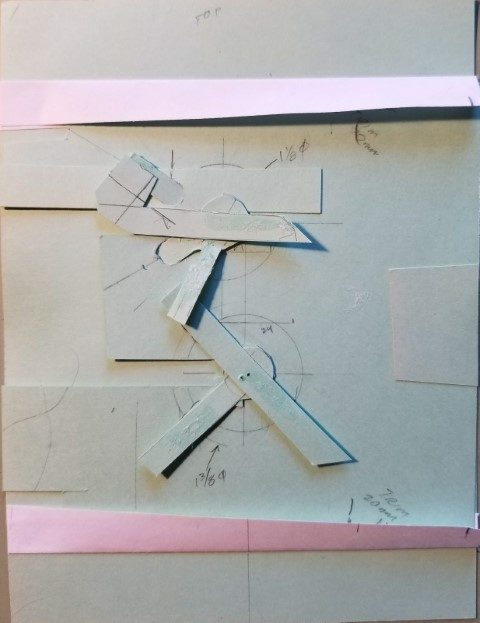
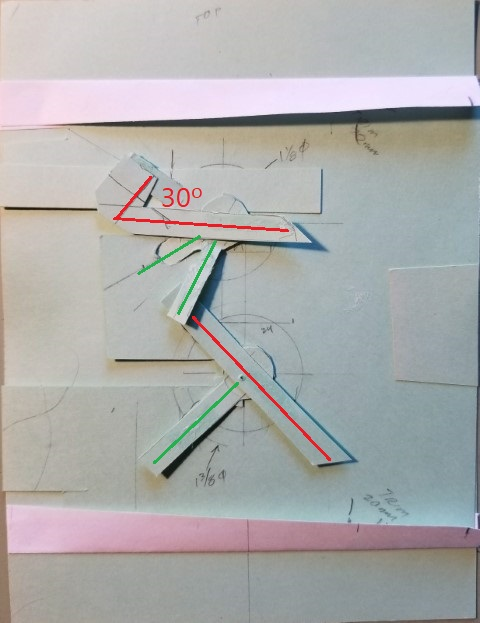
first draft

diff --git a/_posts/2024-3-28-april.md b/_posts/2024-3-28-april.md
@@ -1,11 +1,8 @@
 ---
 tags:
 - 180-degree
-- parallel-fold
-- box
-- slots
-- FS6
-- study-in-black-and-white
+- pivot
+- PT2
 - '2024'
 title: April 2024 Pop-Up
 cover: /images/2404/cover.jpg
@@ -18,35 +15,91 @@ key: April2024
 
 ## Idea
 
-I recently started running again after stopping for nearly ten years due to injuries. To exercise, I first got back on my mountain bike and rode on the trails. Then I would ride and do a lap running on the trails. Before I could get about half a mile in before my knee started acting up and now I found I could go a full lap (about 1.4 miles) without any issues. I started running twice a week and now up to three times a week. I staying on the Dirty Spoke trail race mailing list for the past ten years thinking I'd sign up for a run, and I finally did. It was over ten years since my last Dirty Spoke run, and to celebrate, I made a pop-up card.
+I recently started running again after stopping for nearly ten years due to injuries. To exercise, I first got back on my mountain bike and rode on nearby trails. Then I would ride and do a lap running. Before, I could only get about half a mile in before my knee started acting up, but now I found I could go a full lap (about 1.4 miles) without any issues. I started running twice a week and now up to three times a week. I stayed on the [Dirty Spokes](http://www.dirtyspokes.com/) trail race mailing list for the past ten years thinking someday I'd sign up for a run again, and I finally did. It was over ten years since my last Dirty Spoke run, and to celebrate, I made a pop-up card.
 
 ## Design
 
-I wanted to do a running with the arms and legs moving.
+I wanted to do a running figure with the arms and legs moving, which meant using pivots with a pull tab like I did in the [March 2022](/2022/02/28/dancing-leprechaun.html) pop-up. One issue that first comes up is that the legs and arms move in opposite directions, but on the same pivot point. I knew that would be the trickiest part of this card. To see if it was even feasible, I made a small sketch, and it was doable.
 
-![Mechanism]({{site.baseurl}}/images/2404/prototype.jpg){: width="{{ site.imageWidth }}" }
+For each set of limbs, there would two pivot arms attached be one point. The tab that moved the arms would have a hole above the pivot to move one arm clockwise, and a hole below the pivot to move the other counterclockwise. The plus sign in the sketch below is the pivot point, and you can see the holes for each pivot arm. As the white tab is pulled left, the yellow arm moves clockwise, and the green arm moves counterclockwise.
 
-![Runner]({{site.baseurl}}/images/2404/runner.jpg){: width="{{ site.imageWidth }}" }
+![Mechanism]({{site.baseurl}}/images/2404/prototype.jpg){: width="{{ site.imageWidthHalf }}" }
+*Sketch*{: .image-caption}
 
-Here's a series of photos putting together the prototype mechanism.
+As you may imagine from the sketch, since the arms move in opposite directions, and cross each other avoiding collisions would be a challenge.
 
-![Step1]({{site.baseurl}}/images/2404/step1.jpg){: width="{{ 200 }}" }
-![Step2]({{site.baseurl}}/images/2404/step2.jpg){: width="{{ 200 }}" }
-![Step3]({{site.baseurl}}/images/2404/step3.jpg){: width="{{ 200 }}" }
-![Step4]({{site.baseurl}}/images/2404/step4.jpg){: width="{{ 200 }}" }
+Initially, I was thinking of using 90&deg; pivots for both limbs, but after looking at [Edward Muybridge's photos of a running man](https://www.royalacademy.org.uk/art-artists/work-of-art/running-at-full-speed) I found that the legs moved about 90&deg;, but the arms moved about 120&deg; as show below in an annotated frame.
 
-![Step5]({{site.baseurl}}/images/2404/step5.jpg){: width="{{ 200 }}" }
-![Step6]({{site.baseurl}}/images/2404/step6.jpg){: width="{{ 200 }}" }
-![Step7]({{site.baseurl}}/images/2404/step7.jpg){: width="{{ 200 }}" }
-![Step8]({{site.baseurl}}/images/2404/step8.jpg){: width="{{ 200 }}" }
+![Runner]({{site.baseurl}}/images/2404/runner.jpg){: width="{{ site.imageWidthHalf }}" }
+*Running man*{: .image-caption}
+
+Since the arms and legs move different angles, with the same pull of the tab, that meant the holes for the moving arms had to be at different distances from the pivot point. I did some full-size sketches to test things out. This took much more time than I thought it would, but I finally got it to work.
+
+Here's a series of photos putting together the final prototype mechanism (this is actually a tear-down of it in reverse order).
+
+Step 1 has all the mechanism parts. The left part is the base with guides for the odd-shaped pull to the right of it. The red circles are the pivot points. The green circles on the tab are where the pivot arms go through it.  The pivot arms for the right limbs are already through the upper holes of the tab. These go through the tab from underneath it, to avoid colliding pivot arms for the left limbs.
+
+![Step1]({{site.baseurl}}/images/2404/step1.jpg){: width="{{ site.imageWidth }}" }
+
+Step 2 has the tab in place and the other pivot arms through the holes. The left limbs' arms go through the tab holes from above, then another layer of card is added to strengthen and extend them. At this point the arms will move, but collide. The legs can be attached to pivot arms since the angles match the legs' positions. The pivot arms angle and the arm angle are 30&deg; off, as shown by the lines below. The red lines are for the left limbs, and the green lines are for the right limbs.
+
+![Step2]({{site.baseurl}}/images/2404/step2.jpg){: width="{{ site.imageWidthHalf }}" }
+
+Here's an earlier sketch in motion. I've bent the card to avoid collisions.
+
+![sketch]({{site.baseurl}}/images/2404/sketch.gif){: width="{{ site.imageWidthHalf }}" }
+
+Step 3 has the right leg attached to the pivot arm under the other one.
+
+![Step3]({{site.baseurl}}/images/2404/step3.jpg){: width="{{ site.imageWidthHalf }}" }
+
+Step 4 adds a piece of paper to keep the arm and leg pivot arms from colliding since in the previous photo you can see the will overlap.
+
+![Step4]({{site.baseurl}}/images/2404/step4.jpg){: width="{{ site.imageWidthHalf }}" }
+
+Step 5 adds the main background of the card and the right arm. The legs have separate, curved slots to keep them from colliding. The arms both stick through the same hole since a torso layer will separate them.
+
+![Step5]({{site.baseurl}}/images/2404/step5.jpg){: width="{{ site.imageWidthHalf }}" }
+
+Step 6 has both arms and legs are attached. At this point the legs do pretty well avoiding each other, but the arms will still collide.
+
+![Step6]({{site.baseurl}}/images/2404/step6.jpg){: width="{{ site.imageWidthHalf }}" }
+
+Here's an earlier sketch of the mechanism in motion. I used this sketch to figure out how to avoid collisions with the scraps taped to the base.
+
+![running]({{site.baseurl}}/images/2404/runner.gif){: width="{{ site.imageWidthHalf }}" }
+
+Step 7 adds the last layer of the torso that has the right arm under and the left arm over. The arms are now separated and don't collide. One thing to watch out on the arms is that if they go beyond the torso when moving left, they may go on the wrong side of it, catching or colliding. The avoid that, I'd be careful to limit their movement to the red asterisk.
+
+![Step7]({{site.baseurl}}/images/2404/step7.jpg){: width="{{ site.imageWidthHalf }}" }
+
+The final step is just a refinement of the large arm hole in the previous step to see how small I could make it. I want to make is as invisible as possible.
+
+![Step8]({{site.baseurl}}/images/2404/step8.jpg){: width="{{ site.imageWidthHalf }}" }
+
+Here's the final mechanism assembled.
 
 ![Mechanism]({{site.baseurl}}/images/2404/mechanism.jpg){: width="{{ site.imageWidthHalf }}" }
+*Final mechanism*{: .image-caption}
+
+Although I did many sketches, the final mechanism seemed to catch a bit. I don't know if it was the type of paper in the final version, or bad luck. I narrowed down the problem to the left arm's pivot. If I removed that, all three other limbs worked very smoothly. I recut the parts a few more times, and even lubricated it with graphite as show below, and that seemed to help.
 
 ![Mechanism]({{site.baseurl}}/images/2404/graphite.jpg){: width="{{ site.imageWidthHalf }}" }
+*Lubing it up*{: .image-caption}
+
+I think the problem was with the small area between the upper and lower pivots. To get the arms to move 120&deg; the hole had to be pretty close to the pivot point, which didn't give much leverage and caused stress on the pivot itself. One problem that arose from that was the pivot developed some play, which allowed the right arm to move beyond the torso and then catch on it (see red asterisk in the step 7 photo).
+
+To remedy this I did a "field mod" to the completed card that restricted the movement of the tab a bit.
 
 ![Field modification]({{site.baseurl}}/images/2404/field-mod.jpg){: width="{{ site.imageWidthHalf }}" }
+*Field mod*{: .image-caption}
+
+The figure and base of the card are colored pencils, and ink pens. The main backgrounds is mostly pastels. The torso makes my butt look big, so maybe I need to work on that a bit. The mouse holding the pink sign is from when I ran my first and last marathon. Ma and Pa Wardinkle came out to cheer me on and beside the road Pa had a 4' x 8' pink piece of foam insulation with "Go Howard" written on in big letters. All I could think of was, "Couldn't you have used the blue stuff?".
+
+This card took lots of tinkering and sketches to get it working, and more tinkering to get the final version to work. It's still a bit stiff, but it works. I did use the {{ site.cameo }} to cut many of the parts since they needed to be precise and circular. That was handy when I kept needing more parts to redo the arms over and again.
 
 ![Cuttings]({{site.baseurl}}/images/2404/cuttings.jpg){: width="{{ site.imageWidthHalf }}" }
+*Party!*{: .image-caption}
 
 ## Cover
 
@@ -58,6 +111,5 @@ The cover is just some mice watching the race done with pastels, pens, colored p
 
 - 9" x 6"
 - The base was [Strathmore 300 Bristol](/supplies.html#strathmore-300-bristol) 100lb
-- The mechanism was cardstock from Michaels.
-- The inner mechanism was cut with the {{ site.cameo }}.
-- The curve on the cover was cut by hand.
+- The mechanism was miscellaneous cardstock.
+- The mechanism was cut with the {{ site.cameo }}, the rest by hand.
